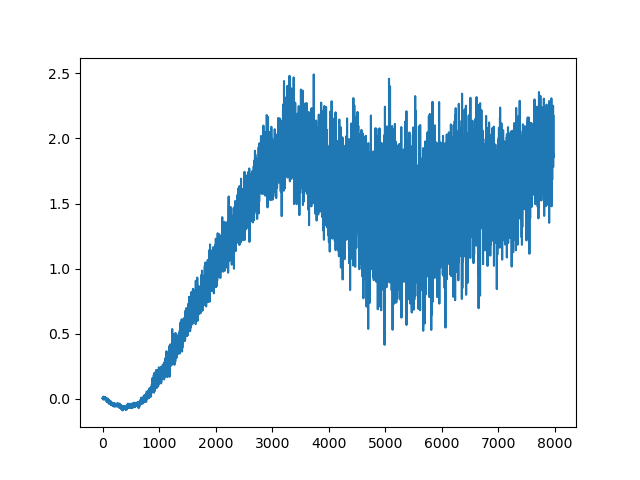
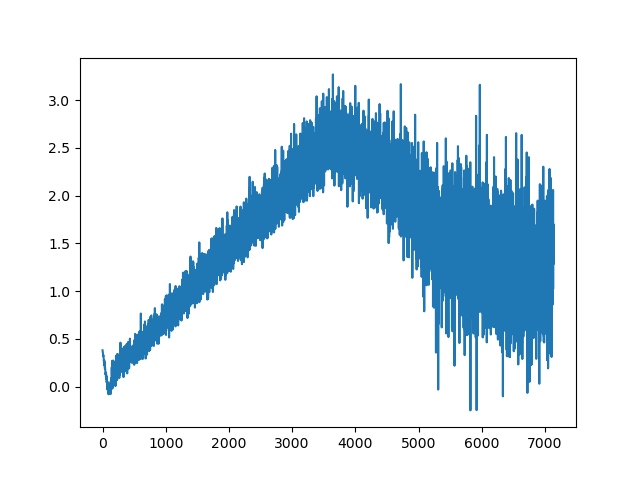
Modifiche parametri+aggiunta target

diff --git a/myPGO/compatible_deterministic_PGO.py b/myPGO/compatible_deterministic_PGO.py
@@ -22,6 +22,7 @@ class Reinforce():
 		self.batch_size = batch_size
 		self.tau = tau  # Parameter for soft target updates
 
+
 		self.replay_buffer = ReplayBuffer(maxlen=buffer_max_len)
 		self.Q = Compatible_Deterministic_Q(input_dim = self.n_states+self.n_actions)
 		self.policy = Deterministic_Policy(n_states=self.n_states, n_actions=self.n_actions)
@@ -53,6 +54,9 @@ class Reinforce():
 			terminated = False
 
 			self.scores.append(0)
+
+			if ep>30: 
+				self.policy_optim = torch.optim.Adam(params=self.policy.parameters(), lr=1e-5)
 
 			while not (truncated or terminated):
 				actions = self.policy(state.unsqueeze(0)).detach().squeeze()
@@ -94,10 +98,10 @@ class Reinforce():
 		
 		with torch.no_grad():
 			#next_action_batch = self.policy(next_states_batch)
-			next_action_batch = self.policy_target(next_states_batch)
+			next_action_batch = self.policy_target(next_states_batch) #sostituisce quella sopra
 			next_state_next_action_batch = torch.cat((next_states_batch, next_action_batch), dim=1)
-			target_q_batch = self.Q(next_state_next_action_batch).squeeze()
-			target_q_batch = self.Q_target(next_state_next_action_batch).squeeze()
+			#target_q_batch = self.Q(next_state_next_action_batch).squeeze()
+			target_q_batch = self.Q_target(next_state_next_action_batch).squeeze() #sostituisce quella sopra
 			target_q_batch = rewards_batch + (~terminated_batch)*self.gamma*target_q_batch		# Qw(st+1, mu(st+1)) 
 			
 		# target = rt + gamma*Qw(st+1, mu(st+1)) , pred = Qw(st,at)
@@ -114,7 +118,7 @@ class Reinforce():
 		policy_loss.backward()
 		self.policy_optim.step()
 		self.policy_loss_history.append(policy_loss.item())
-
+	
 		self.Q_optim.zero_grad()
 		Q_loss.backward()
 		self.Q_optim.step()
@@ -148,6 +152,6 @@ num_cores = 8
 torch.set_num_interop_threads(num_cores) # Inter-op parallelism
 torch.set_num_threads(num_cores) # Intra-op parallelism
 env = gym.make('LunarLander-v2', render_mode=None, continuous=True)
-trainer = Reinforce(env=env, n_episodes=100, gamma=0.99, buffer_max_len=100000, steps2opt=1, batch_size=64, policy_lr=1e-5, Q_lr=1e-4)
+trainer = Reinforce(env=env, n_episodes=100, gamma=0.99, buffer_max_len=100000, steps2opt=1, batch_size=32, policy_lr=1e-4, Q_lr=1e-4)
 trainer.train()
 trainer.plot_rewards()

diff --git a/myPGO/networks/deterministic_network.py b/myPGO/networks/deterministic_network.py
@@ -2,30 +2,33 @@ import torch
 import torch.nn.functional as F
 
 class Deterministic_Policy(torch.nn.Module):
-    def __init__(self, n_states, n_actions, hidden=256):
+    
+    def __init__(self, n_states, n_actions):
         super().__init__()
-        self.layer1 = torch.nn.Linear(n_states, hidden)
-        self.layer2 = torch.nn.Linear(hidden, hidden)
-        self.layer3 = torch.nn.Linear(hidden, n_actions)
+        self.layer1 = torch.nn.Linear(n_states, 400)
+        self.layer2 = torch.nn.Linear(400, 300)
+        self.layer3 = torch.nn.Linear(300, n_actions)
         self.n_actions = n_actions
         
         self.scale_factor = torch.tensor([1.5, 2], requires_grad=False)
         self.bias_factor = torch.tensor([-0.5, -1], requires_grad=False)
 
     def forward(self, x):
-        x = F.leaky_relu(self.layer1(x))
-        x = F.leaky_relu(self.layer2(x))
+        x = F.relu(self.layer1(x))
+        x = F.relu(self.layer2(x))
         x = F.sigmoid(self.layer3(x))
         
         # [main_engine, lateral_engine]
         #   [-0.5, 1]       [-1,1]
         return x[:, :self.n_actions] * self.scale_factor + self.bias_factor
     
-class Compatible_Deterministic_Q(torch.nn.Module):
 
+class Compatible_Deterministic_Q(torch.nn.Module):
+    
     def __init__(self, input_dim):
         super().__init__()
         self.layer1 = torch.nn.Linear(input_dim, 1)
 
     def forward(self, x):
         return self.layer1(x)
+    
